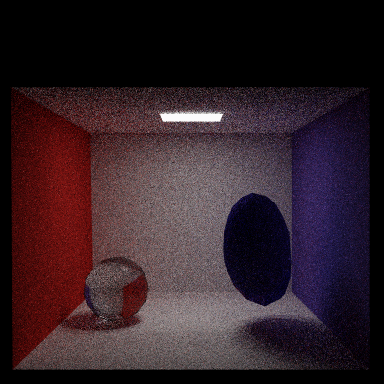
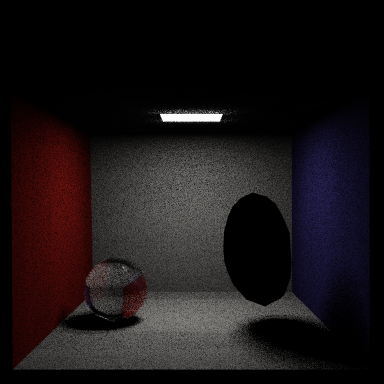
Refactored stencil code

diff --git a/main.cpp b/main.cpp
@@ -31,7 +31,7 @@ int main(int argc, char *argv[])
     QString scenefile = args[0];
     QString output = args[1];
 
-    bool usePhotonMapping = false;
+    bool usePhotonMapping = true;
     int samplePerPixel = 10;
     bool defocusBlurOn = false;
     bool useOrenNayerBRDF = false;
@@ -39,35 +39,31 @@ int main(int argc, char *argv[])
 
     QImage image(IMAGE_WIDTH, IMAGE_HEIGHT, QImage::Format_RGB32);
 
-    for (int i = 524; i < 525; ++i) {
+    Scene *scene;
+    if(!Scene::load(scenefile, &scene)) {
+        std::cerr << "Error parsing scene file " << scenefile.toStdString() << std::endl;
+        a.exit(1);
+        return 1;
+    }
 
 
-        Scene *scene;
-        if(!Scene::load(scenefile, &scene, i)) {
-            std::cerr << "Error parsing scene file " << scenefile.toStdString() << std::endl;
-            a.exit(1);
-            return 1;
-        }
+    PathTracer tracer(IMAGE_WIDTH, IMAGE_HEIGHT, usePhotonMapping, samplePerPixel, defocusBlurOn, useOrenNayerBRDF, importanceSampling);
 
+    QRgb *data = reinterpret_cast<QRgb *>(image.bits());
 
-        PathTracer tracer(IMAGE_WIDTH, IMAGE_HEIGHT, usePhotonMapping, samplePerPixel, defocusBlurOn, useOrenNayerBRDF, importanceSampling);
+    tracer.traceScene(data, *scene);
+    delete scene;
 
-        QRgb *data = reinterpret_cast<QRgb *>(image.bits());
+    std::string path = output.toStdString() + ".png";
 
-        tracer.traceScene(data, *scene);
-        delete scene;
-
-        std::string path = output.toStdString() + "-" + std::to_string(i) + ".png";
-
-        bool success = image.save(QString::fromStdString(path));
-        if(!success) {
-            success = image.save(output, "PNG");
-        }
-        if(success) {
-            std::cout << "Wrote rendered image to " << output.toStdString() << std::endl;
-        } else {
-            std::cerr << "Error: failed to write image to " << output.toStdString() << std::endl;
-        }
+    bool success = image.save(QString::fromStdString(path));
+    if(!success) {
+        success = image.save(output, "PNG");
+    }
+    if(success) {
+        std::cout << "Wrote rendered image to " << output.toStdString() << std::endl;
+    } else {
+        std::cerr << "Error: failed to write image to " << output.toStdString() << std::endl;
     }
     a.exit();
 }

diff --git a/pathtracer.cpp b/pathtracer.cpp
@@ -106,10 +106,11 @@ Vector3f PathTracer::traceRayWithPhotonMapping(const Ray& r, const Scene& scene,
         const tinyobj::material_t& mat = t->getMaterial();//Get the material of the triangle from the mesh
         std::shared_ptr<Material> obj = std::make_shared<Lambertian>(mat);
 
-        selectMaterial(mat, obj);
+        selectMaterial(mat, obj);  // Decide the material that the ray hit
 
         double factor = 1.0;
 
+        // Get the triangle normal
         Vector3f n = i.object->getNormal(i);
         n = n.dot(ray.d) < 0 ? n : -n;
 
@@ -117,19 +118,20 @@ Vector3f PathTracer::traceRayWithPhotonMapping(const Ray& r, const Scene& scene,
         LightSampler sampler;
         Vector3f sampleColor(0, 0, 0);
 
+        // Direct lighting
         for (auto light: scene.getEmissives()) {
             Vector3f lightColor = sampler.sampleDirect(ray, i, light, scene, scatteredLight);
             Vector3f objColor = obj->sampleBRDF(ray.d, n, scatteredLight.d) * obj->getDiffuseColor();
             sampleColor += piecewiseMul(lightColor, objColor);
         }
-
+        // Self-emitting radiance
         if (countEmitted) {
             sampleColor += obj->getEmissiveColor();
         }
 
+        // russian roulette
         if (depth >= 10) {
             //return sampleColor;
-            // russian roulette
             double continue_probability = obj->m_maxRadiance;
             if (random_double(0.0, 1.0) >= continue_probability) {
                 return sampleColor;
@@ -189,7 +191,6 @@ Vector3f PathTracer::traceRayWithPathTracing(const Ray& r, const Scene& scene, i
             Vector3f objColor = obj->sampleBRDF(ray.d, n, scatteredLight.d) * obj->getDiffuseColor();
             sampleColor += piecewiseMul(lightColor, objColor);
         }
-
 
         if (countEmitted) {
             sampleColor += obj->getEmissiveColor();

diff --git a/util/CS123XmlSceneParser.cpp b/util/CS123XmlSceneParser.cpp
@@ -18,6 +18,17 @@
 #define UNSUPPORTED_ELEMENT(e) std::cout << ERROR_AT(e) << "unsupported element <" \
     << e.tagName().toStdString() << ">" << std::endl;
 
+CS123XmlSceneParser::CS123XmlSceneParser(const std::string& name)
+{
+    file_name = name;
+
+    memset(&m_cameraData, 0, sizeof(CS123SceneCameraData));
+    memset(&m_globalData, 0, sizeof(CS123SceneGlobalData));
+    m_objects.clear();
+    m_lights.clear();
+    m_nodes.clear();
+}
+
 CS123XmlSceneParser::CS123XmlSceneParser(const std::string& name, int _cnt)
 {
     file_name = name;
@@ -707,8 +718,12 @@ bool CS123XmlSceneParser::parsePrimitive(const QDomElement &prim, CS123SceneNode
         if (prim.hasAttribute("meshfile")) {
             primitive->meshfile = prim.attribute("meshfile").toStdString();
         } else if (prim.hasAttribute("filename")) {
-            primitive->meshfile = prim.attribute("filename").toStdString() + "-" + std::to_string(cnt) + ".obj";
-            cnt += 1;
+            if(cnt >= 0) {
+                primitive->meshfile = prim.attribute("filename").toStdString() + "-" + std::to_string(cnt) + ".obj";
+                cnt += 1;
+            } else {
+                primitive->meshfile = prim.attribute("filename").toStdString() + ".obj";
+            }
         } else {
             std::cout << "mesh object must specify filename" << std::endl;
             return false;

diff --git a/scene/scene.cpp b/scene/scene.cpp
@@ -32,6 +32,45 @@ Scene::~Scene()
     delete m_bvh;
 }
 
+bool Scene::load(QString filename, Scene **scenePointer)
+{
+    CS123XmlSceneParser parser(filename.toStdString());
+    if(!parser.parse()) {
+        return false;
+    }
+    CS123SceneCameraData cameraData;
+    parser.getCameraData(cameraData);
+    BasicCamera camera(cameraData.pos.head<3>(),
+                       cameraData.look.head<3>(),
+                       cameraData.up.head<3>(),
+                       cameraData.heightAngle,
+                       (float)IMAGE_WIDTH / (float)IMAGE_HEIGHT);
+    Scene *scene = new Scene;
+    scene->setCamera(camera);
+
+    CS123SceneGlobalData globalData;
+    parser.getGlobalData(globalData);
+
+
+    scene->setGlobalData(globalData);
+
+    CS123SceneLightData lightData;
+    for(int i = 0, size = parser.getNumLights(); i < size; ++i) {
+        parser.getLightData(i, lightData);
+        scene->addLight(lightData);
+    }
+
+    QFileInfo info(filename);
+    QString dir = info.path();
+    CS123SceneNode *root = parser.getRootNode();
+    if(!parseTree(root, scene, dir.toStdString() + "/")) {
+        return false;
+    }
+
+    *scenePointer = scene;
+    return true;
+}
+
 bool Scene::load(QString filename, Scene **scenePointer, int cnt)
 {
     CS123XmlSceneParser parser(filename.toStdString(), cnt);

diff --git a/util/CS123XmlSceneParser.h b/util/CS123XmlSceneParser.h
@@ -21,6 +21,7 @@ class CS123XmlSceneParser : public CS123ISceneParser {
 
 public:
     // Create a parser, passing it the scene file.
+    CS123XmlSceneParser(const std::string& filename);
     CS123XmlSceneParser(const std::string& filename, int _cnt);
 
     // Clean up all data for the scene
@@ -58,7 +59,7 @@ private:
     CS123SceneGlobalData m_globalData;
     std::vector<CS123SceneNode*> m_nodes;
 
-    int cnt;
+    int cnt = -1;
 };
 
 #endif

diff --git a/scene/scene.h b/scene/scene.h
@@ -19,6 +19,7 @@ public:
     Scene();
     virtual ~Scene();
 
+    static bool load(QString filename, Scene **scenePointer);
     static bool load(QString filename, Scene **scenePointer, int cnt);
 
     void setBVH(const BVH &bvh);
